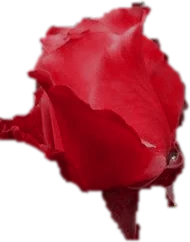
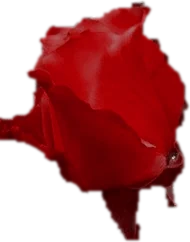
Deepen the red roses and favour open blooms on the bushes
Claude-Session: https://claude.ai/code/session_01Jf93vLBpdLsipSjdkVNi7y

diff --git a/index.html b/index.html
@@ -1399,8 +1399,8 @@ book.addEventListener('touchend', e => {
       for (let k = 0; k < 4 + Math.floor(rnd() * 4); k++) {
         const fx = cx + (rnd() - .5) * r * 2.4, fy = cy + (rnd() - .6) * r * 1.2;
         x.strokeStyle = '#3c5a2a'; x.lineWidth = 1.5; x.beginPath(); x.moveTo(fx, fy); x.lineTo(fx + (rnd() - .5) * 8, fy + r * .7); x.stroke();
-        const rose = IMG['rose-' + (b < .3 ? 'red' : 'pink') + '-' + (1 + Math.floor(rnd() * 3))], size = (7 + depth * 9 + rnd() * 4) * u;
-        if (rose && b < .6) stand(x, rose, fx, fy + size * 1.5, size * 3, (rnd() - .5) * .7, 1);
+        const pick = rnd(), rose = IMG['rose-' + (b < .42 ? 'red' : 'pink') + '-' + (pick < .62 ? 3 : pick < .82 ? 1 : 2)], size = (8 + depth * 10 + rnd() * 4) * u;
+        if (rose && b < .6) stand(x, rose, fx, fy + size * 1.6, size * 3.3, (rnd() - .5) * .5, 1);
         else flower(x, fx, fy, size, kind, col, rnd);
       }
     });
